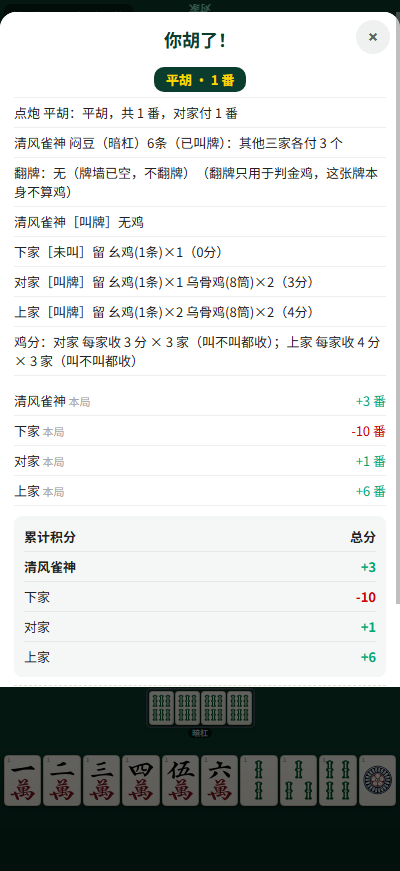
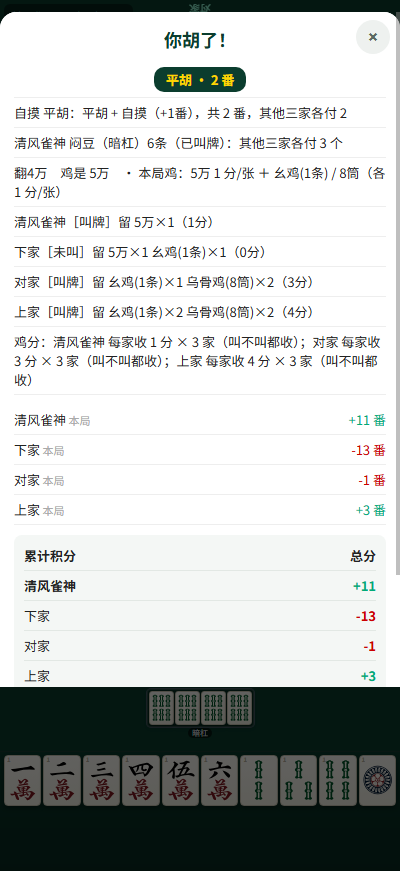
翻牌鸡参与计分（本局的鸡 = 翻牌的下一张）+ 结算窗「翻牌」那行改写
用户 2026-09-16 两条指令：
① 「结算局面 还要加入 翻牌鸡的计算」—— 之前只把翻牌当"判金鸡"用，没让它进计分，是错的。
② 「胡牌家 = 胡的牌型 + 鸡 + 杠；叫牌家 = 鸡 + 杠；未叫什么都不算，还要多付打出去的 1条/8筒，然后相互加减」
   —— 这个结算结构现有实现已经是这样（番/豆/鸡 三套独立相加 + 未叫家只付不收），不动。

① 鸡由 2 类变 3 类（chickenValue）
   · 常鸡 幺鸡(1条) 1 分/张；常鸡 乌骨鸡(8筒) 1 分/张；本局翻牌鸡正好是它俩之一 → 金 2 分/张
   · **翻牌鸡** = 翻到的牌的**下一张**那张牌种（例：翻 4万 → 鸡是 5万）→ **1 分/张**，参与计分
   · 计数/收付完全沿用原口径：叫牌家的（手牌+副露+牌河）全算、向三家各收；未叫家只付不收；
     包鸡仍只算未叫家打出的 **幺鸡/8筒**（用户原话"多付打出去的 1条和8筒"）
② 结算窗「翻牌」那行（修掉一个显示 bug）
   · 原来把**鸡牌**标成了"翻牌"（G.chickenCard 存的是下一张，翻到的牌没存也没显示）
     → 新增 G.flipCard（settle 里记下牌墙顶那张），现在显示：`翻4万　鸡是 5万　· 本局鸡：5万 1 分/张 ＋ 幺鸡(1条) / 8筒（各 1 分/张）`
   · 删掉"（翻牌只用于判金鸡，这张牌本身不算鸡）"—— 用户指出这说法不对。

测试：chicken-test 132 项（② 段整段改写为"翻牌鸡要计分"，含"牌墙已空没有翻牌鸡"的反例）；
它把一处口径写成了显式断言：未叫家打出的 6万 不进包鸡。
其余套件 game-logic 100 · multiwin 31 · extra-rules 29 · hu-type 27 · sound 35 · 牌面 28 · 语音 13；布局 46 场景全绿。
README：速查/术语（加「翻牌鸡」）/分值表/④归属（三种→三类）/5-2/⑦明细样例 全部同步。

diff --git a/index.html b/index.html
@@ -2000,7 +2000,7 @@ function resetHand(){
   G.melds=[[],[],[],[]];G.discards=[[],[],[],[]];
   // 弃牌区尺寸档位的"历史峰值"（只升不降，见 render 里的档位判定）
   G.discardPeak=[0,0,0,0];
-  G.drawn=null;G.lastDiscard=null;G.lastDiscardBy=-1;G.lastDiscardAt=0;G.picked=null;G.pendingAction=null;G.actions=[];G.chickenCard=null;G.huList=[];
+  G.drawn=null;G.lastDiscard=null;G.lastDiscardBy=-1;G.lastDiscardAt=0;G.picked=null;G.pendingAction=null;G.actions=[];G.chickenCard=null;G.flipCard=null;G.huList=[];
   G.roundScore=[0,0,0,0]; // 本局清零，累计分 G.scores 保留
   G.chargeChickens=[];G.respChickens=[];G.gangFlower=false;G.fieldChicken=null;G.winTile=null;
   G.bao=[false,false,false,false];G.baoName=['','','',''];G.openFollow=null;
@@ -2506,18 +2506,22 @@ function doHuMulti(list,from,zimo){
 
    ## 一、金鸡由**翻牌**决定（②）—— 翻牌本身不是鸡
    · **翻牌** = 牌墙里第 1 张未摸的牌（G.wall 栈顶）。**有玩家胡牌且牌墙未空**时才翻。
-   · **金鸡牌 = 翻到的牌的下一张**（点数 +1；9 之后回到 1）—— 用户 2026-09-16："翻牌的 +1 是鸡牌"。
+   · **翻牌定出"本局的鸡牌"** = 翻到的牌的**下一张**（点数 +1；9 之后回到 1）—— 例：翻 **4万** → **鸡是 5万**。
        代码里 G.chickenCard 存的就是这张"下一张"（`settle()` 里 `s*9+((t%9+1)%9)`）。
-   · 金鸡牌是 **幺鸡(1条)** → 本局幺鸡升金；是 **乌骨鸡(8筒)** → 本局 8筒 升金（该牌种 ×2）。
+   · 本局翻牌鸡是 **幺鸡(1条)** → 幺鸡升金；是 **乌骨鸡(8筒)** → 8筒升金（该牌种 ×2）。
        换成"翻到哪张"的说法：翻到 **9条** → 金幺鸡；翻到 **7筒** → 金乌骨鸡。
-   · 翻到的牌是别的（例如 5万）→ 本局**没有金鸡**（幺鸡 / 8筒 照常 1 分/张）。
-   · 翻牌**本身不算鸡、不参与计分**（用户 2026-09-15："捉鸡牌（翻牌 +1 那张）不算，贵阳麻将没有这规则"），
-     它的唯一作用是**判金鸡**（上一行）。⚠ 别和"翻牌的 +1 是鸡牌"混了：能被计分的鸡始终只有 **幺鸡 / 8筒** 两种。
+   · 本局翻牌鸡是别的牌（例如 5万）→ 没有金鸡；但 **5万 本身就是"翻牌鸡"，同样计分 1 分/张**
+       （幺鸡 / 8筒 照常 1 分/张）—— 即本局共有三类鸡，见 §二。
+   · ⚠ 旧说法"翻牌只用于判金鸡、这张牌本身不算鸡"**已作废**（用户 2026-09-16：
+     "结算局面还要加入翻牌鸡的计算"）。翻牌的作用有两层：**定出本局的鸡牌**（= 下一张），
+     且**那张牌本身就是鸡**（1 分/张，叫"翻牌鸡"）。
    · "叫牌的手上有鸡牌的都得，有几个得几个" = 叫牌家的 幺鸡/8筒 **有几张算几张**（见 §三）。
 
-   ## 二、每张鸡的分值 v（只有两个牌种）
-     幺鸡 1 分/张（金 2）｜ 乌骨鸡 8筒 1 分/张（金 2）
-     → 分值只跟**牌种**有关：金鸡只把"那一个牌种"翻倍，另一个牌种照旧。
+   ## 二、每张鸡的分值 v（三类鸡）
+     · 常鸡 · 幺鸡(1条)   1 分/张（本局翻牌鸡正好是它 → 金 2 分/张）
+     · 常鸡 · 乌骨鸡(8筒) 1 分/张（同上）
+     · **翻牌鸡** = 翻到的牌的下一张那张牌种（例：翻 4万 → 鸡是 5万）→ **1 分/张**
+     → 分值只跟**牌种**有关；"金"只把三条里"翻牌鸡正好是它"的那一个常鸡牌种翻倍。
 
    ## 三、计数口径（按**牌种**记，不按"在手/打出"记）
    · **鸡 = 幺鸡(1条) / 乌骨鸡(8筒)** —— 只有这两类牌算分。
@@ -2568,15 +2572,19 @@ const isChargeTile=c=>isChickenTile(c);      // 冲锋鸡用：幺鸡 或 乌骨
    不产生那额外的 1 分。（要让乌骨鸡也算，把这里改成 isChickenTile 即可。） */
 const isRespTile=c=>c===YAOJI;
 
-// 一张牌在本局作为"鸡"的分值（金鸡翻倍）；不是鸡 → 0
-// ⚠ 用户 2026-09-15：「捉鸡牌（翻牌 +1 那张）不算，贵阳麻将没有这规则」。
-//    那张牌**只用来判金鸡**（翻到 9条 → 幺鸡升金；翻到 7筒 → 8筒升金），本身不参与计分。
+// 一张牌在本局作为"鸡"的分值；不是鸡 → 0
+// 🔴 用户 2026-09-16 定稿：**鸡有三类**，翻牌鸡（翻到的牌的下一张）也要参与计分 ——
+//    ① 常鸡 · 幺鸡(1条)   1 分/张（本局翻牌鸡正好是它 → 金 2 分/张）
+//    ② 常鸡 · 乌骨鸡(8筒) 1 分/张（同上）
+//    ③ **翻牌鸡** = 翻到的牌的下一张那张牌种（例：翻 4万 → 鸡是 5万）→ 1 分/张
+//    "金"只把 ① ② 中"翻牌鸡正好是它"的那一个牌种翻倍；③ 是普通 1 分。
 function chickenValue(c,fc){
-  if(c===YAOJI)  return fc===YAOJI?2:1;      // 鸡牌恰是幺鸡 → 金幺鸡 2 分/张
-  if(c===WUGUJI) return fc===WUGUJI?2:1;     // 鸡牌恰是乌骨鸡 → 金乌骨鸡 2 分/张
-  return 0;                                   // 其他牌都是 0（含"翻牌 +1"那张，它不再是鸡）
+  if(c===YAOJI)  return fc===YAOJI?2:1;      // 常鸡·幺鸡（本局翻牌鸡恰是它 → 金 2 分/张）
+  if(c===WUGUJI) return fc===WUGUJI?2:1;     // 常鸡·乌骨鸡（同上）
+  if(fc!==null&&fc!==undefined&&c===fc)return 1;   // ③ 翻牌鸡：翻到的牌的下一张
+  return 0;                                   // 其他牌都不是鸡
 }
-// （原 isFieldChicken「宽口径」已删除：翻牌 +1 那张**不再是鸡**，不参与任何计分）
+// （原 isFieldChicken「宽口径」已删除；能计分的鸡就上面三类）
 // 鸡牌在界面上的叫法：麻将桌上就叫"幺鸡/乌骨鸡"，比自己看"1条/8筒"直观
 const chickenName=c=>(c===YAOJI?'幺鸡(1条)':c===WUGUJI?'乌骨鸡(8筒)':cname(c));
 
@@ -2608,7 +2616,7 @@ function chickenOwnPts(s){return s.rows.reduce((a,r)=>a+(r.keep+r.disc)*r.v,0);}
 
 /* 鸡分结算。total 传数组 = 真结算；传 null = **只统计不落分**（荒庄用，规则："黄庄豆鸡不算分"）。
    写进 total，并把可直接显示的明细 push 到 lines。
-   顺序：① 翻牌（只判金鸡） → ② 每家鸡的类型/数量 → ③ 常鸡收付 → ④ 冲锋鸡 → ⑤ 责任鸡 */
+   顺序：① 翻牌（写清"翻到什么、本局的鸡是什么"） → ② 每家鸡的类型/数量 → ③ 常鸡收付 → ④ 冲锋鸡 → ⑤ 责任鸡 */
 function chickenSettle(win, lines, total, burn){
   const winList=(Array.isArray(win)?win:[win]).filter(p=>typeof p==='number'&&p>=0&&p<4);   // 可能多家同时胡
   const dry=!total;
@@ -2620,10 +2628,19 @@ function chickenSettle(win, lines, total, burn){
   // 热炮（杠上炮）：点炮者的鸡全部烧掉 —— 他的鸡不收、也不因此产生赔付
   const burnList=(Array.isArray(burn)?burn:[]).filter(p=>typeof p==='number'&&p>=0&&p<4);
   const isBurned=p=>burnList.includes(p);
-  const gold=(fc===YAOJI)?'（金幺鸡 ×2）':(fc===WUGUJI)?'（金乌骨鸡 ×2）':'';
-
-  // ② 翻牌 + 每家明细（叫牌/未叫、手里的、打出的）
-  lines.push(`翻牌：${fc!==null?chickenName(fc)+gold:'无（牌墙已空，不翻牌）'}　（翻牌只用于判金鸡，这张牌本身不算鸡）`);
+  const goldName=(fc===YAOJI)?'幺鸡(1条)':(fc===WUGUJI)?'乌骨鸡(8筒)':null;
+  // 🔴 用户 2026-09-16：这行要**写清"翻到什么 + 本局的鸡是什么"**（例：翻4万 → 鸡是5万），
+  //    而且**翻牌鸡是要计分的**（1 分/张）—— 不能再写"翻牌只用于判金鸡"。
+  //    ⚠ 显示时别把"鸡牌"标成"翻牌"：G.chickenCard 存的是**翻到的牌的下一张**，翻到的牌是 G.flipCard。
+  const flipTxt=(G.flipCard===null||G.flipCard===undefined)
+    ?'牌墙已空，不翻牌'
+    :`翻${cname(G.flipCard)}　鸡是 ${chickenName(fc)}`;
+  const chickenTxt=(fc===null||fc===undefined)
+    ?'本局鸡：幺鸡(1条) / 8筒（各 1 分/张）'
+    :(goldName
+      ?`本局鸡：${chickenName(fc)} 2 分/张（金）＋ ${chickenName(fc===YAOJI?WUGUJI:YAOJI)} 1 分/张`
+      :`本局鸡：${chickenName(fc)} 1 分/张 ＋ 幺鸡(1条) / 8筒（各 1 分/张）`);
+  lines.push(`${flipTxt}　· ${chickenTxt}`);
   sur.forEach((s,p)=>{
     const own=(called[p]&&!isBurned(p))?chickenOwnPts(s):0;   // 未叫家收不到 → 0 分
     const hasChicken=(s.rows||[]).length>0;
@@ -2832,8 +2849,9 @@ function settle(win,from,zimo,hotCannon){
   const winners=(Array.isArray(win)?win.slice():[win]).filter(p=>typeof p==='number'&&p>=0&&p<4);
   const winner=winners.length?winners[0]:-1;
   // ---- 翻鸡牌：牌墙顶指示牌的「下一张」----
-  let chicken=null;
-  if(G.wall.length>0){const t=G.wall[G.wall.length-1];const s=(t/9)|0;chicken=s*9+((t%9+1)%9);}
+  let chicken=null,flip=null;
+  if(G.wall.length>0){flip=G.wall[G.wall.length-1];const s=(flip/9)|0;chicken=s*9+((flip%9+1)%9);}
+  G.flipCard=flip;
   G.chickenCard=chicken;
   G.fieldChicken=chicken;
   const lines=[],total=[0,0,0,0];

diff --git a/README.md b/README.md
@@ -104,11 +104,12 @@
 | 鸡 | 分值 |
 |---|---|
 | 幺鸡（1条）/ 乌骨鸡（8筒） | **1 分/张**（金鸡时 2 分/张） |
+| **翻牌鸡**（本局翻牌的下一张） | **1 分/张** |
 | **冲锋鸡** | **每个牌种各一只**（1条、8筒）；每只 **2 分/家**，该牌种是金鸡时 **4 分/家** |
 | **责任鸡** | 打出的幺鸡被叫牌家碰/杠走 → 打出者**多付 1 分** |
 | **谁的鸡算分** | **只有 幺鸡 / 8筒**；**未叫家的鸡一律不算分**（收不到） |
 
-**金鸡**：胡牌时翻出牌墙第 1 张未摸的牌 —— 翻到 **9条** 或 **7筒**，该牌种全场 **2 分/张**（见 §5-2）。
+**鸡牌**：胡牌时翻出牌墙第 1 张未摸的牌，**它的下一张就是本局的鸡**（例：翻 4万 → 鸡是 5万）；鸡正好是 **幺鸡 / 8筒** 时该牌种全场 **2 分/张**（见 §5-2）。
 
 **黄庄（荒庄）**：豆、鸡**都不算分**；但要**查叫** —— 未叫牌的人赔给每个叫牌者「其叫牌牌型的番值」。
 
@@ -138,7 +139,7 @@
 
 | 你想知道 | 一句话答案 | 详见 |
 |---|---|---|
-| 鸡是什么牌、值多少？ | **只有 幺鸡(1条) / 乌骨鸡(8筒)**，各 **1 分/张**；翻到 9条 → 幺鸡 **2 分/张**，翻到 7筒 → 8筒 **2 分/张** | §2 |
+| 鸡是什么牌、值多少？ | ①**幺鸡(1条)** ②**乌骨鸡(8筒)** ③**翻牌鸡**（翻到的牌的下一张，例：翻 4万 → 鸡是 5万）—— 都是 **1 分/张**；翻到 9条 → 幺鸡 **2 分/张**，翻到 7筒 → 8筒 **2 分/张** | §2 |
 | 鸡分谁给谁？ | **每个叫牌家按自己的鸡数，向其他三家各收一份**；叫不叫都要付，但只有叫牌家能收 | §3 |
 | 打出去的鸡算谁的？ | 叫牌家打出的 → **算他自己的**；未叫牌家打出的 → **每个叫牌家各一份**（包鸡） | §4 |
 | 留着不打的鸡算谁的？ | 未叫牌家留着的**一律不算**；**只有打出去的才赔** | §4 |
@@ -155,8 +156,10 @@
 | **叫牌家** | 本局**叫牌的人 ∪ 胡牌的人**。 |
 | **未叫家** | 既不胡、也没叫牌的人。 |
 | **翻牌** | 牌墙里**第 1 张未摸的牌**。有玩家胡牌且牌墙还有牌时才翻。 |
+| **鸡牌** | **翻到的牌的下一张**（点数 +1；9 之后回到 1）。例：翻 4万 → 鸡是 5万。 |
+| **翻牌鸡** | 就是上一条的**鸡牌** —— 它**本身也是一类鸡，参与计分**（1 分/张）。 |
 | **常鸡** | 幺鸡（1条）、乌骨鸡（8筒）—— 天生就是鸡。 |
-| **金鸡** | 本局**翻牌的下一张**是 幺鸡 / 8筒 时，该牌种全场升级（**2 分/张**）。翻到 **9条** → 金幺鸡；翻到 **7筒** → 金乌骨鸡。 |
+| **金鸡** | 本局的**鸡牌**正好是 幺鸡 / 8筒 时，该牌种全场升级（**2 分/张**）：翻 **9条** → 金幺鸡；翻 **7筒** → 金乌骨鸡。 |
 | **冲锋鸡** | **每个牌种各一只**：本局**第一张**被打出的**幺鸡**、**第一张**被打出的**乌骨鸡**。两只属同一家就合并算。 |
 | **责任鸡** | 打出的**幺鸡**被**叫牌家碰（或明杠）走**时，打出者要多付的那 1 分。**乌骨鸡不算**。 |
 
@@ -166,6 +169,7 @@
 |---|---|---|
 | 幺鸡（1条） | **1 分/张** | **2 分/张**（金幺鸡） |
 | 乌骨鸡（8筒） | **1 分/张** | **2 分/张**（金乌骨鸡） |
+| **翻牌鸡**（本局翻牌的下一张，例：翻 4万 → 鸡是 5万） | **1 分/张** | （它本身就是 幺鸡/8筒 时，见上两行） |
 
 ---
 
@@ -189,7 +193,7 @@
 
 ## ④ 鸡的归属：四种情形
 
-按「这张鸡在谁那儿、处于什么状态」分四种 —— **只认 幺鸡 / 8筒 两种牌**：
+按「这张鸡在谁那儿、处于什么状态」分四种 —— 只认**三类鸡**：**幺鸡(1条)**、**乌骨鸡(8筒)**、**本局翻牌鸡**（翻到的牌的下一张，例：翻 4万 → 鸡是 5万）：
 
 | # | 这张鸡在哪 | 归谁收 |
 |---|---|---|
@@ -227,8 +231,11 @@
 ### 5-2 翻牌与金鸡
 
 - **什么时候翻**：有人胡牌、且牌墙还有牌 → 翻牌墙第 1 张未摸的牌；牌墙已空（荒庄）→ 不翻，本局没有金鸡。
-- **翻牌的下一张才是本局的金鸡牌**：翻到 **9条** → 下一张是幺鸡 → 幺鸡全场 **2 分/张**；
-  翻到 **7筒** → 下一张是 8筒 → 8筒全场 **2 分/张**；其它牌 → 本局无金鸡，都照常 **1 分/张**。
+- **翻牌定出"本局的鸡"**：**鸡 = 翻到的牌的下一张**（点数 +1；9 之后回到 1）。
+  例：翻 **4万** → 鸡是 **5万**；翻 **8条** → 鸡是 **9条**；翻 **9条** → 鸡是 **幺鸡**；翻 **7筒** → 鸡是 **8筒**。
+- 本局**能计分的鸡**仍然只有 **幺鸡(1条) / 8筒** 两种：鸡正好翻到它俩之一 → 该牌种全场 **2 分/张**；否则照常 **1 分/张**。
+- **翻牌鸡参与计分**：本局的鸡牌（= 翻到的牌的下一张）**全场算鸡、1 分/张** —— 叫牌家手上有几张就收几份；
+  未叫家**打出的**照 §4 归叫牌家（包鸡），留着的仍不算。
 
 ### 5-3 冲锋鸡
 
@@ -327,7 +334,7 @@
 结算窗会逐家列出一行，格式固定：
 
 ```
-翻牌：5万　（翻牌只用于判金鸡）                     ← 翻到 9条/7筒 才有金鸡
+翻5万　鸡是 6万　· 本局鸡：6万 1 分/张 ＋ 幺鸡(1条) / 8筒（各 1 分/张）  ← 翻到什么 → 鸡是下一张
 你［叫牌］留 幺鸡(1条)×2 乌骨鸡(8筒)×4（6分）       ← 叫牌家：「留」+「打」都算自己的
 下家［未叫］留 幺鸡(1条)×1（0分）                    ← 未叫家收不到 → 一律 0 分
 对家［未叫］无鸡
